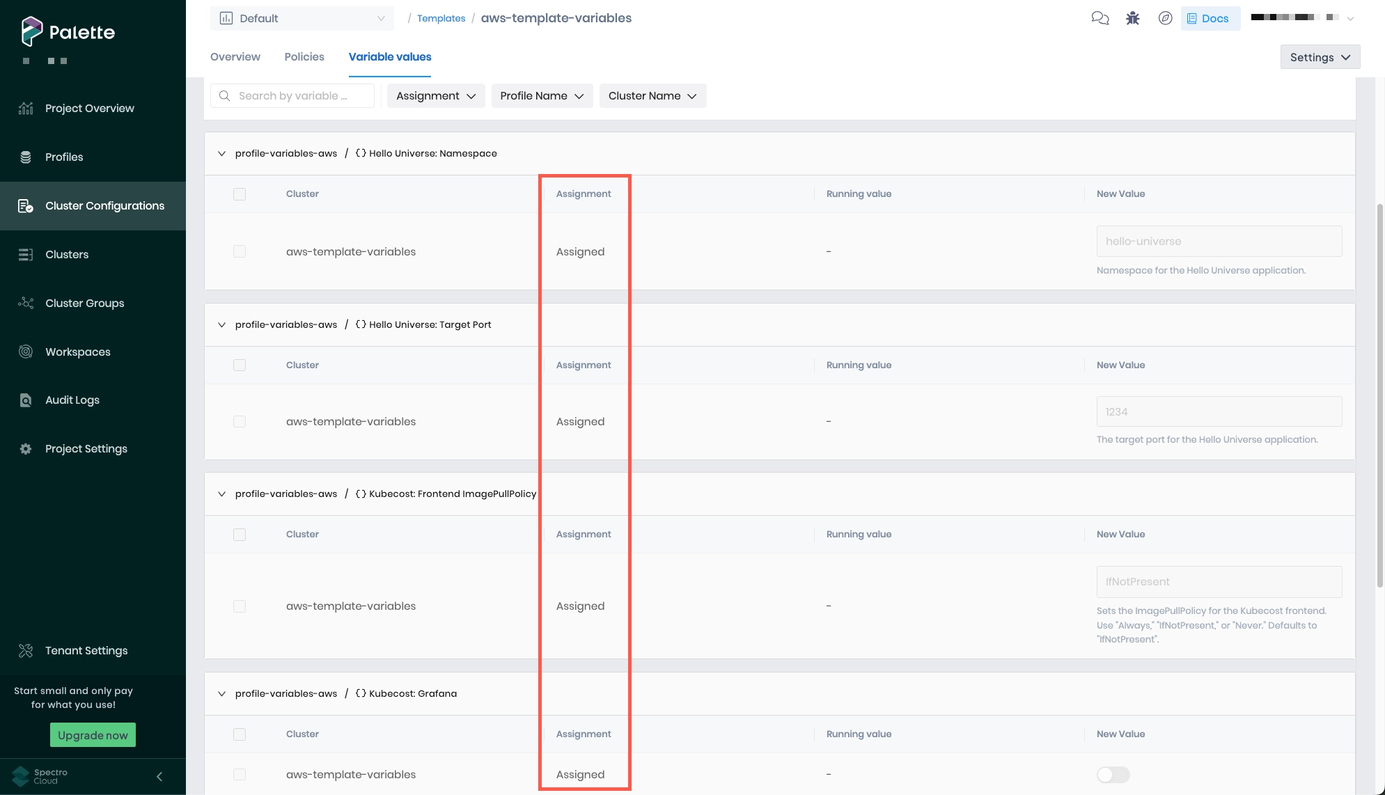
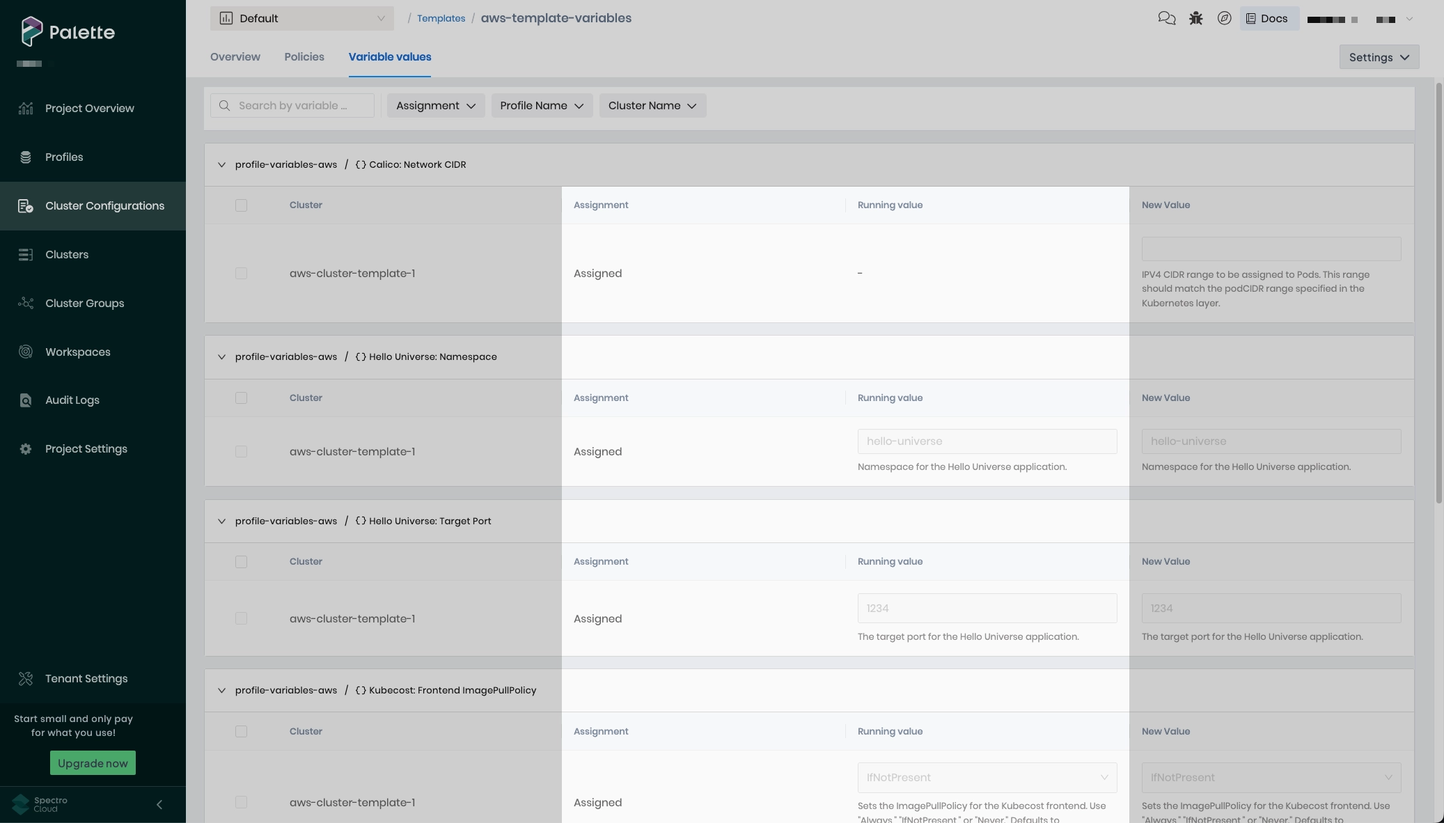
Small modifications; beginning work

diff --git a/docs/docs-content/cluster-templates/cluster-templates.md b/docs/docs-content/cluster-templates/cluster-templates.md
@@ -26,10 +26,9 @@ that define the governance stack. They reference existing cluster profiles and o
 and [macros](../clusters/cluster-management/macros.md), allowing you to deploy, manage, and scale a synchronized fleet
 of clusters with minimal effort while configuring environment-specific values where needed.
 
-Cluster templates can be created at both the tenant and project scope. Cluster templates do not embed cluster profile
-and policy configurations but reference them as objects, allowing you to edit and replace them as needed.
-
-Cluster templates can also be managed using the [API](/api/introduction).
+Cluster templates can be created and managed at both the tenant and project scope using the Palette UI or
+[API](/api/introduction). Cluster templates do not embed cluster profile and policy configurations but reference them as
+objects, allowing you to edit and replace them as needed.
 
 ![Diagram of cluster template architecture](/cluster-templates_diagram.webp)
 
@@ -50,10 +49,10 @@ Once a cluster profile version is linked to a cluster template, that version of 
 
 To make changes to a linked cluster profile, you must
 [create a new version](../profiles/cluster-profiles/modify-cluster-profiles/version-cluster-profile.md) of the cluster
-profile and update the version referenced in the cluster template. This ensures that all clusters using the cluster
-template have identical software stacks, preventing configuration drift that can naturally occur with inline, on-the-fly
-updates, or by using varied cluster profile versions. Each cluster can be attached to only one cluster template at a
-time, further guarding against drift.
+profile and [update the version referenced](./modify-cluster-templates.md#update-cluster-profile-version) in the cluster
+template. This ensures that all clusters using the cluster template have identical software stacks, preventing
+configuration drift that can naturally occur with inline, on-the-fly updates, or by using varied cluster profile
+versions. Each cluster can be attached to only one cluster template at a time, further guarding against drift.
 
 A cluster profile version cannot be linked to a cluster template if that profile version is already being used by a
 cluster that is not attached to a cluster template.
@@ -66,9 +65,9 @@ are the best way to configure environment-specific values per cluster, such as I
 
 Much like deploying clusters with individual cluster profiles, variable values are assigned and propagated when you
 deploy a cluster using a cluster template. Once the cluster is deployed, the variables appear on the **Variable values**
-tab of your cluster template with an **Assignment** status of **Assigned**.
+tab of your cluster template with an **Assignment** status of **Assigned** and the **Running value** listed.
 
-![Variables with a status of Assigned](/cluster-templates_variables-assigned.webp)
+![Variables with a status of Assigned and running values](/cluster-templates_variables-assigned.webp)
 
 Cluster templates help with the initial propagation of new variable values, but they are not the source of truth for
 ongoing variable management across clusters. The source of truth remains the cluster profile, which defines the schema,
@@ -83,16 +82,30 @@ For information on modifying cluster profile variables post-cluster deployment, 
 ### Cluster Profile vs. Cluster Template Deployment
 
 You can deploy clusters using cluster profiles or cluster templates, which encapsulate cluster profiles. If you plan on
-deploying a large number of clusters that use the same software stack and ensure the clusters update together, consider
-using cluster templates.
+deploying a large number of clusters that use the same software stack and want to ensure the clusters update together,
+consider using cluster templates.
 
 The following table compares and contrasts how to update cluster profiles and cluster profile variables depending on
 whether your cluster is deployed using individual cluster profiles or a cluster template.
 
-| **Update Type**               | **Cluster Profile Workflow**                                                                                                                                                                                                                                                                                                                                                                                                                                                                                                                                                                                                                                                                                                                                                                      | **Cluster Template Workflow**                                                                                                                                                                                                                                                                                                                                                                                                                                                                                                                                                                                                                                                                                                                                                                                                                                                                                                                                                                                                                                                                                                                                              |
-| ----------------------------- | ------------------------------------------------------------------------------------------------------------------------------------------------------------------------------------------------------------------------------------------------------------------------------------------------------------------------------------------------------------------------------------------------------------------------------------------------------------------------------------------------------------------------------------------------------------------------------------------------------------------------------------------------------------------------------------------------------------------------------------------------------------------------------------------------- | -------------------------------------------------------------------------------------------------------------------------------------------------------------------------------------------------------------------------------------------------------------------------------------------------------------------------------------------------------------------------------------------------------------------------------------------------------------------------------------------------------------------------------------------------------------------------------------------------------------------------------------------------------------------------------------------------------------------------------------------------------------------------------------------------------------------------------------------------------------------------------------------------------------------------------------------------------------------------------------------------------------------------------------------------------------------------------------------------------------------------------------------------------------------------- |
-| **Cluster profiles**          | - Initiate updates on a per-cluster basis by selecting a [new cluster profile version](../clusters/cluster-management/cluster-updates.md#enablement) for each cluster or making on-the-fly changes to a cluster. <br / > - Routine, automatic updates are not supported.                                                                                                                                                                                                                                                                                                                                                                                                                                                                                                                          | - [Update the cluster profile version](./modify-cluster-templates.md#cluster-profiles) in the cluster template. All clusters deployed with the template are updated during the next update window specified by the [maintenance policy](./create-cluster-template-policies/maintenance-policy.md) or by [manually triggering the update](./modify-cluster-templates.md#overview-tab) for all clusters. <br /> - Updating the cluster profile version for a single cluster or making on-the-fly changes to a cluster is not supported.                                                                                                                                                                                                                                                                                                                                                                                                                                                                                                                                                                                                                                      |
-| **Cluster profile variables** | - Specify initial values during cluster deployment. <br /> - Edit variable values for _individual clusters_ within [cluster settings](../profiles/cluster-profiles/create-cluster-profiles/define-profile-variables/modify-cluster-profile-variables.md#modify-profile-variable-values-in-an-active-cluster). Values are updated in real time. <br /> - To add or remove variables, or update the schema, [create a new version of the cluster profile](../profiles/cluster-profiles/modify-cluster-profiles/version-cluster-profile.md), and manually [update the version](../clusters/cluster-management/cluster-updates.md#enablement) on each cluster. Values are modified and confirmed at this step. <br /> - Batch updates for multiple clusters using the same profile are not supported. | - Specify initial values during cluster deployment. <br /> - Edit variable values for _individual clusters_ within [cluster settings](../profiles/cluster-profiles/create-cluster-profiles/define-profile-variables/modify-cluster-profile-variables.md#modify-profile-variable-values-in-an-active-cluster). Values are updated in real time. <br /> - To add or remove variables, update a schema, or update a value across _multiple clusters_, [create a new version of the cluster profile](../profiles/cluster-profiles/modify-cluster-profiles/version-cluster-profile.md), and [update the cluster profile version](./modify-cluster-templates.md#cluster-profiles) referenced in the cluster template. Next, update the [**Variable values**](modify-cluster-templates.md#variable-values-tab) for all applicable clusters. Once all values have a status of **Assigned**, all clusters deployed with the template are updated during the next update window specified by the [maintenance policy](./create-cluster-template-policies/maintenance-policy.md) or by [manually triggering the update](./modify-cluster-templates.md#overview-tab) for all clusters. |
+#### Cluster Profile Updates
+
+|                   | **Cluster Profile Deployment**                                                                                                                                                                                   | **Cluster Template Deployment**                                                                                                                                                                                                                                                                                                                                                                        |
+| ----------------- | ---------------------------------------------------------------------------------------------------------------------------------------------------------------------------------------------------------------- | ------------------------------------------------------------------------------------------------------------------------------------------------------------------------------------------------------------------------------------------------------------------------------------------------------------------------------------------------------------------------------------------------------ |
+| **Workflow**      | - Initiate updates on a per-cluster basis by selecting a [new cluster profile version](../clusters/cluster-management/cluster-updates.md#enablement) for each cluster or making on-the-fly changes to a cluster. | - [Update the cluster profile version](./modify-cluster-templates.md#cluster-profiles) in the cluster template. All clusters deployed with the template are updated during the next update window specified by the [maintenance policy](./create-cluster-template-policies/maintenance-policy.md) or by [manually triggering the update](./modify-cluster-templates.md#overview-tab) for all clusters. |
+| **Not Supported** | - Routine, automatic updates.                                                                                                                                                                                    | - Updating the cluster profile version for a single cluster. <br /> - Making on-the-fly changes to a cluster.                                                                                                                                                                                                                                                                                          |
+
+#### Cluster Profile Variable Updates
+
+|                   | **Cluster Profile Deployment**                                                                                                                                                                                                                                                                                                                                                                                                                                                                                                                                                                                                                                                                             | **Cluster Template Deployment**                                                                                                                                                                                                                                                                                                                                                                                                                                                                                                                                                                                                                                                                                                                                                                                                                                                                                                                                                                                                                                                                                                                                            |
+| ----------------- | ---------------------------------------------------------------------------------------------------------------------------------------------------------------------------------------------------------------------------------------------------------------------------------------------------------------------------------------------------------------------------------------------------------------------------------------------------------------------------------------------------------------------------------------------------------------------------------------------------------------------------------------------------------------------------------------------------------- | -------------------------------------------------------------------------------------------------------------------------------------------------------------------------------------------------------------------------------------------------------------------------------------------------------------------------------------------------------------------------------------------------------------------------------------------------------------------------------------------------------------------------------------------------------------------------------------------------------------------------------------------------------------------------------------------------------------------------------------------------------------------------------------------------------------------------------------------------------------------------------------------------------------------------------------------------------------------------------------------------------------------------------------------------------------------------------------------------------------------------------------------------------------------------- |
+| **Workflow**      | - Specify initial values during cluster deployment. <br /> - Edit variable values for _individual clusters_ within [cluster settings](../profiles/cluster-profiles/create-cluster-profiles/define-profile-variables/modify-cluster-profile-variables.md#modify-profile-variable-values-in-an-active-cluster). Values are updated in real time. <br /> - To add or remove variables, or update the schema, [create a new version of the cluster profile](../profiles/cluster-profiles/modify-cluster-profiles/version-cluster-profile.md), and manually [update the version](../clusters/cluster-management/cluster-updates.md#enablement) on each cluster. Values are modified and confirmed at this step. | - Specify initial values during cluster deployment. <br /> - Edit variable values for _individual clusters_ within [cluster settings](../profiles/cluster-profiles/create-cluster-profiles/define-profile-variables/modify-cluster-profile-variables.md#modify-profile-variable-values-in-an-active-cluster). Values are updated in real time. <br /> - To add or remove variables, update a schema, or update a value across _multiple clusters_, [create a new version of the cluster profile](../profiles/cluster-profiles/modify-cluster-profiles/version-cluster-profile.md), and [update the cluster profile version](./modify-cluster-templates.md#cluster-profiles) referenced in the cluster template. Next, update the [**Variable values**](modify-cluster-templates.md#variable-values-tab) for all applicable clusters. Once all values have a status of **Assigned**, all clusters deployed with the template are updated during the next update window specified by the [maintenance policy](./create-cluster-template-policies/maintenance-policy.md) or by [manually triggering the update](./modify-cluster-templates.md#overview-tab) for all clusters. |
+| **Not Supported** | - Batch updates for multiple clusters using the same profile.                                                                                                                                                                                                                                                                                                                                                                                                                                                                                                                                                                                                                                              | N/A                                                                                                                                                                                                                                                                                                                                                                                                                                                                                                                                                                                                                                                                                                                                                                                                                                                                                                                                                                                                                                                                                                                                                                        |
+
+| **Update Type**               | **Cluster Profile Workflow**                                                                                                                                                                                                                                                                                                                                                                                                                                                                                                                                                                                                                                                                                                                                                                                                        | **Cluster Template Workflow**                                                                                                                                                                                                                                                                                                                                                                                                                                                                                                                                                                                                                                                                                                                                                                                                                                                                                                                                                                                                                                                                                                                                                                  |
+| ----------------------------- | ----------------------------------------------------------------------------------------------------------------------------------------------------------------------------------------------------------------------------------------------------------------------------------------------------------------------------------------------------------------------------------------------------------------------------------------------------------------------------------------------------------------------------------------------------------------------------------------------------------------------------------------------------------------------------------------------------------------------------------------------------------------------------------------------------------------------------------- | ---------------------------------------------------------------------------------------------------------------------------------------------------------------------------------------------------------------------------------------------------------------------------------------------------------------------------------------------------------------------------------------------------------------------------------------------------------------------------------------------------------------------------------------------------------------------------------------------------------------------------------------------------------------------------------------------------------------------------------------------------------------------------------------------------------------------------------------------------------------------------------------------------------------------------------------------------------------------------------------------------------------------------------------------------------------------------------------------------------------------------------------------------------------------------------------------- |
+| **Cluster profiles**          | **Workflow** <br />- Initiate updates on a per-cluster basis by selecting a [new cluster profile version](../clusters/cluster-management/cluster-updates.md#enablement) for each cluster or making on-the-fly changes to a cluster. <br / > <br /> **Not Supported** <br /> - Routine, automatic updates.                                                                                                                                                                                                                                                                                                                                                                                                                                                                                                                           | **Workflow** <br /> - [Update the cluster profile version](./modify-cluster-templates.md#cluster-profiles) in the cluster template. All clusters deployed with the template are updated during the next update window specified by the [maintenance policy](./create-cluster-template-policies/maintenance-policy.md) or by [manually triggering the update](./modify-cluster-templates.md#overview-tab) for all clusters. <br /> <br /> **Not Supported** <br /> - Updating the cluster profile version for a single cluster. <br /> - Making on-the-fly changes to a cluster.                                                                                                                                                                                                                                                                                                                                                                                                                                                                                                                                                                                                                |
+| **Cluster profile variables** | **Workflow** <br /> - Specify initial values during cluster deployment. <br /> - Edit variable values for _individual clusters_ within [cluster settings](../profiles/cluster-profiles/create-cluster-profiles/define-profile-variables/modify-cluster-profile-variables.md#modify-profile-variable-values-in-an-active-cluster). Values are updated in real time. <br /> - To add or remove variables, or update the schema, [create a new version of the cluster profile](../profiles/cluster-profiles/modify-cluster-profiles/version-cluster-profile.md), and manually [update the version](../clusters/cluster-management/cluster-updates.md#enablement) on each cluster. Values are modified and confirmed at this step. <br /> <br /> **Not Supported** <br /> - Batch updates for multiple clusters using the same profile. | **Workflow** <br /> - Specify initial values during cluster deployment. <br /> - Edit variable values for _individual clusters_ within [cluster settings](../profiles/cluster-profiles/create-cluster-profiles/define-profile-variables/modify-cluster-profile-variables.md#modify-profile-variable-values-in-an-active-cluster). Values are updated in real time. <br /> - To add or remove variables, update a schema, or update a value across _multiple clusters_, [create a new version of the cluster profile](../profiles/cluster-profiles/modify-cluster-profiles/version-cluster-profile.md), and [update the cluster profile version](./modify-cluster-templates.md#cluster-profiles) referenced in the cluster template. Next, update the [**Variable values**](modify-cluster-templates.md#variable-values-tab) for all applicable clusters. Once all values have a status of **Assigned**, all clusters deployed with the template are updated during the next update window specified by the [maintenance policy](./create-cluster-template-policies/maintenance-policy.md) or by [manually triggering the update](./modify-cluster-templates.md#overview-tab) for all clusters. |
 
 ## Policy Behavior
 

diff --git a/docs/docs-content/cluster-templates/modify-cluster-templates.md b/docs/docs-content/cluster-templates/modify-cluster-templates.md
@@ -5,7 +5,7 @@ description:
   "Learn how to modify cluster templates, including cluster profile versions and policies, and trigger manual updates."
 hide_table_of_contents: false
 sidebar_position: 20
-toc_max_heading_level: 4
+toc_max_heading_level: 5
 tags: ["cluster templates"]
 ---
 
@@ -92,7 +92,7 @@ Use the **Policies** tab to perform the following actions:
   [infrastructure](../profiles/cluster-profiles/create-cluster-profiles/create-infrastructure-profile.md) or
   [full cluster profile](../profiles/cluster-profiles/create-cluster-profiles/create-full-profile.md).
 
-- Add or remove
+- Add, remove, or replace
   [add-on cluster profiles](../profiles/cluster-profiles/create-cluster-profiles/create-addon-profile/create-addon-profile.md).
 
 - Update the version of a linked cluster profile.
@@ -210,7 +210,7 @@ recommended way to configure environment-specific values per cluster, such as IP
 
 Variable values are assigned and propagated when you deploy a cluster using a cluster template. Once the cluster is
 deployed, the variables appear on the **Variable values** tab of your cluster template with an **Assignment** status of
-**Assigned**.
+**Assigned** and the **Running value** listed.
 
 ![Variables with a status of Assigned](/cluster-templates_variables-assigned.webp)
 
